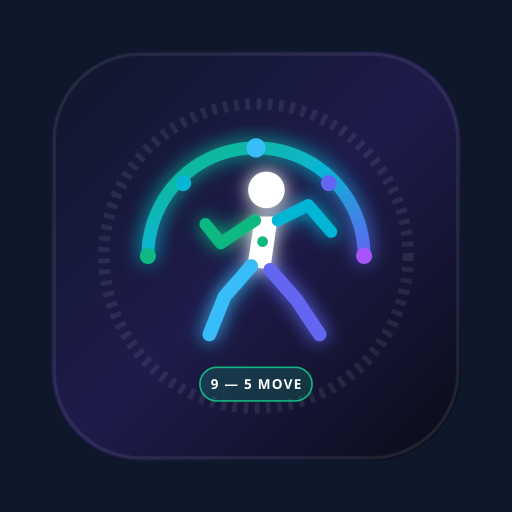
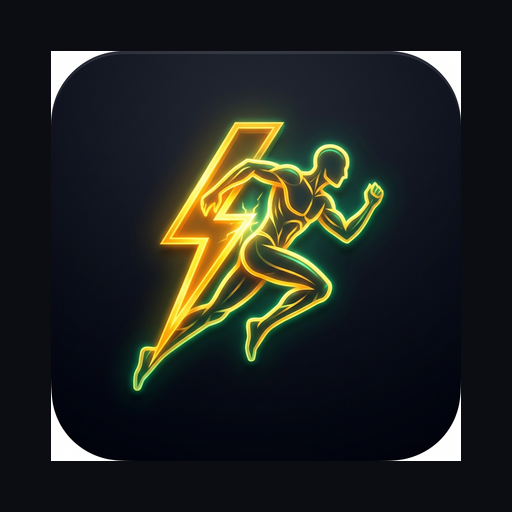
chore: update PWA assets and add install prompt hook
Updated branding assets and initialized PWA installation hook in the home screen to improve installability.

diff --git a/src/components/HomeScreen.tsx b/src/components/HomeScreen.tsx
@@ -1,6 +1,7 @@
 import React, { useState } from 'react';
 import { useAuth } from '../context/AuthContext';
 import { useTheme } from '../context/ThemeContext';
+import { usePWAInstall } from '../hooks/usePWAInstall';
 import {
   Sun,
   Moon,
@@ -9,6 +10,8 @@ import {
   Mail,
   Lock,
   User,
+  Smartphone,
+  X,
 } from 'lucide-react';
 
 interface HomeScreenProps {
@@ -22,6 +25,9 @@ export const HomeScreen: React.FC<HomeScreenProps> = ({
 }) => {
   const { signIn, signInWithEmail, signUpWithEmail } = useAuth();
   const { theme, toggleTheme } = useTheme();
+
+  const { isInstallable, isInstalled, isIOS, install } = usePWAInstall();
+  const [showInstallGuide, setShowInstallGuide] = useState(false);
 
   // Auth mode: 'signin' | 'signup'
   const [authMode, setAuthMode] = useState<'signin' | 'signup'>('signin');
@@ -272,8 +278,25 @@ export const HomeScreen: React.FC<HomeScreenProps> = ({
             </button>
           </div>
 
-          {/* Quick Links: Guest & Invite Code */}
-          <div className="space-y-1.5 max-w-xs mx-auto text-center">
+          {/* Quick Links: Guest & Invite Code & Phone Install */}
+          <div className="space-y-2 max-w-xs mx-auto text-center pt-1">
+            {!isInstalled && (
+              <button
+                type="button"
+                onClick={async () => {
+                  if (isInstallable) {
+                    await install();
+                  } else {
+                    setShowInstallGuide(true);
+                  }
+                }}
+                className="w-full py-2 px-3 rounded-2xl bg-amber-400/15 hover:bg-amber-400/25 border border-amber-400/40 text-neutral-900 dark:text-amber-300 font-bold text-xs flex items-center justify-center gap-1.5 modern-press transition"
+              >
+                <Smartphone className="w-3.5 h-3.5" />
+                <span>Install as Phone App (No Browser Bar)</span>
+              </button>
+            )}
+
             {onContinueAsGuest && (
               <button
                 type="button"
@@ -321,6 +344,60 @@ export const HomeScreen: React.FC<HomeScreenProps> = ({
           <ShieldCheck className="w-3.5 h-3.5 text-emerald-500" />
           <span>Private on-device AI camera tracking</span>
         </div>
+
+        {/* Phone Install Guide Modal */}
+        {showInstallGuide && (
+          <div className="fixed inset-0 z-50 flex items-center justify-center bg-black/60 backdrop-blur-sm p-4 text-neutral-900 dark:text-white">
+            <div className="w-full max-w-sm rounded-3xl bg-white dark:bg-neutral-900 border border-neutral-200 dark:border-neutral-800 p-6 shadow-2xl space-y-4">
+              <div className="flex items-center justify-between pb-2 border-b border-neutral-100 dark:border-neutral-800">
+                <div className="flex items-center gap-2">
+                  <Smartphone className="w-5 h-5 text-amber-500" />
+                  <h3 className="text-base font-bold">Install as Phone App</h3>
+                </div>
+                <button
+                  type="button"
+                  onClick={() => setShowInstallGuide(false)}
+                  className="w-8 h-8 rounded-full bg-neutral-100 dark:bg-neutral-800 flex items-center justify-center text-neutral-500 hover:text-neutral-900 dark:hover:text-white"
+                >
+                  <X className="w-4 h-4" />
+                </button>
+              </div>
+
+              <div className="space-y-3 text-xs leading-relaxed text-neutral-600 dark:text-neutral-300">
+                <div className="p-3 rounded-2xl bg-neutral-50 dark:bg-neutral-800/60 border border-neutral-200 dark:border-neutral-700">
+                  <div className="font-bold text-neutral-900 dark:text-white mb-1">
+                    📱 On Android (Chrome):
+                  </div>
+                  <ol className="list-decimal list-inside space-y-1 text-neutral-600 dark:text-neutral-400">
+                    <li>Tap the <strong>3 dots (⋮)</strong> menu in the top right of Chrome.</li>
+                    <li>Tap <strong>"Install app"</strong> or <strong>"Add to Home screen"</strong>.</li>
+                    <li>Tap <strong>Install</strong>. MoveMates will install to your app drawer and open full screen without Chrome bars!</li>
+                  </ol>
+                </div>
+
+                <div className="p-3 rounded-2xl bg-neutral-50 dark:bg-neutral-800/60 border border-neutral-200 dark:border-neutral-700">
+                  <div className="font-bold text-neutral-900 dark:text-white mb-1">
+                    🍏 On iPhone (Safari):
+                  </div>
+                  <ol className="list-decimal list-inside space-y-1 text-neutral-600 dark:text-neutral-400">
+                    <li>Open this URL in <strong>Safari</strong>.</li>
+                    <li>Tap the <strong>Share</strong> button (box with up arrow).</li>
+                    <li>Scroll down and tap <strong>"Add to Home Screen"</strong>.</li>
+                    <li>Tap <strong>Add</strong>. MoveMates will launch full screen with no Safari browser bars!</li>
+                  </ol>
+                </div>
+              </div>
+
+              <button
+                type="button"
+                onClick={() => setShowInstallGuide(false)}
+                className="w-full py-3 rounded-2xl bg-neutral-900 text-white dark:bg-white dark:text-neutral-950 font-bold text-xs modern-press"
+              >
+                Got It
+              </button>
+            </div>
+          </div>
+        )}
       </div>
     </div>
   );
